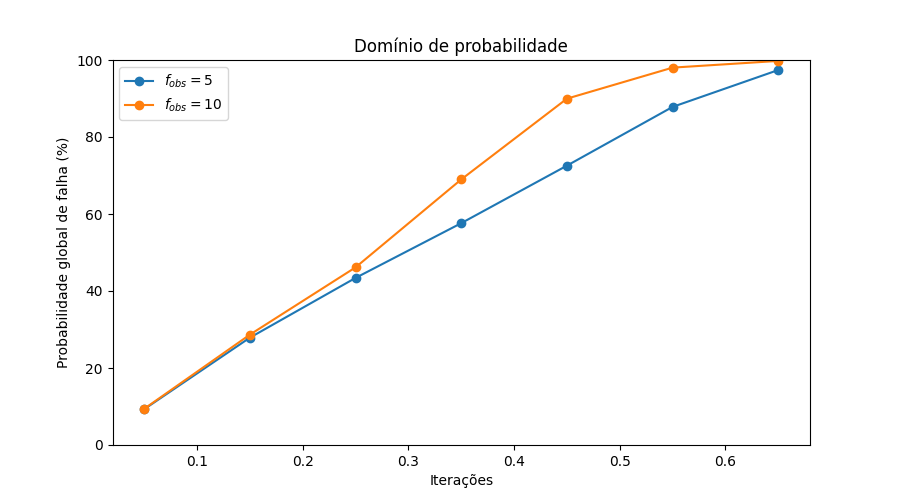
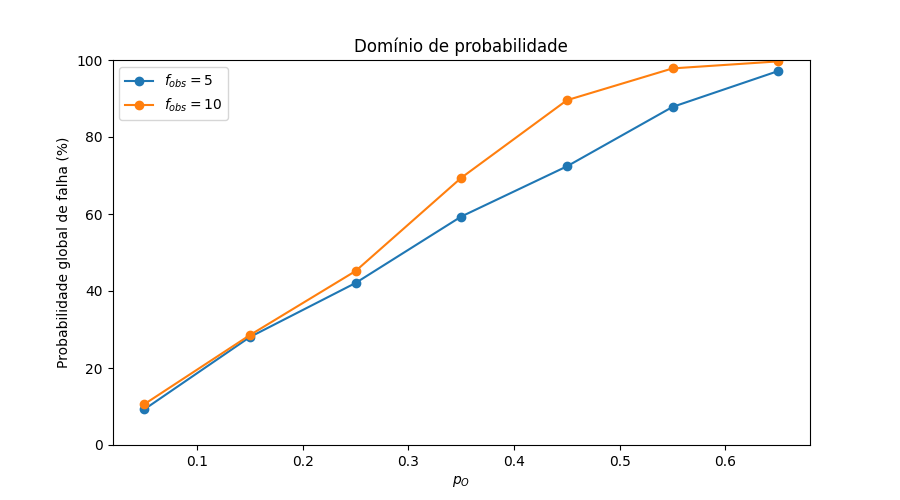
label do plot corrigido

diff --git a/src/classes/gemeo_digital.py b/src/classes/gemeo_digital.py
@@ -124,7 +124,7 @@ class GemeoDigital:
         plt.plot(p_O_lin, Prob[10], '-o', label='$f_{obs}=10$')
         plt.ylim(0, 100)
         plt.title("Domínio de probabilidade")
-        plt.xlabel("Iterações")
+        plt.xlabel("$p_O$")
         plt.ylabel("Probabilidade global de falha (%)")
         plt.legend()
         plt.savefig("imagens/gêmeo digital/ex 1_1/iii.png")